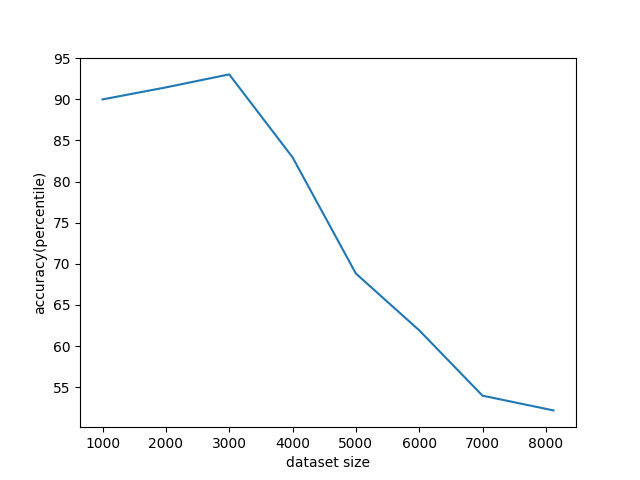
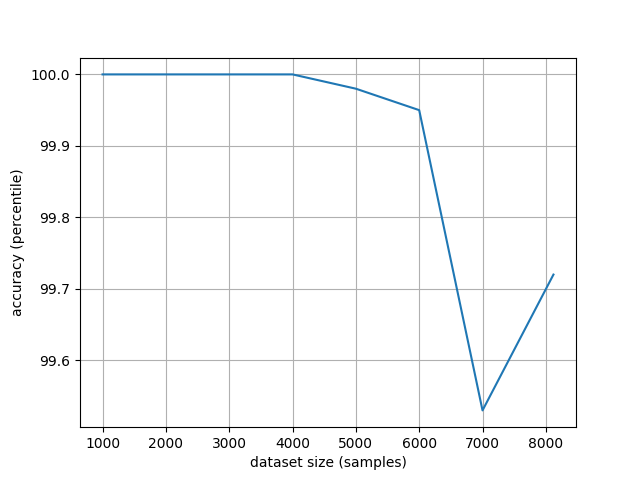
DataManager made template

diff --git a/data-manager/DataManager.hpp b/data-manager/DataManager.hpp
@@ -1,0 +1,99 @@
+#ifndef __DataManager_h__
+#define __DataManager_h__
+
+#include<iostream>
+#include<map>
+#include <utility>
+#include<vector>
+#include<string>
+#include<csv.hpp>
+
+template <class type>
+class example{
+public:
+    std::string label;
+    std::vector<type> attributes;
+};
+
+template <class type>
+class DataManager{
+public:
+    // python-like negative indexing works for label_col
+    explicit DataManager(const std::string& file_path, int label_col, bool has_header = true);
+    explicit DataManager(const std::string& file_path, bool has_header = true): DataManager(file_path, -1, has_header){}
+    std::vector<example<type>*> getListExamples();
+    std::map<std::string, std::vector<example<type>*>> getGroupedExamples();
+    std::map<std::string, std::vector<example<type>*>> getGroupedExamples(std::vector<example<type>*>& example_list);
+    size_t examples_num = 0;
+private:
+    bool has_header;
+    std::string file_path;
+    int label_column;
+};
+
+template <typename type>
+DataManager<type>:: DataManager(const std::string& file_path, int label_col, bool has_header):file_path(file_path), has_header(has_header){
+    // Create a CSVStat object just for the purpose of reading the number of columns and calculating label_column
+    // TODO find out if csv library really doesn't have the seekg(0) or rewind() ability
+    csv::CSVStat stat(file_path);
+    label_column = (label_col + stat.get_col_names().size()) % stat.get_col_names().size();
+}
+
+template <typename type>
+std::vector<example<type>*> DataManager<type>::getListExamples() {
+    csv::CSVFormat format;
+    std::vector<example<type>*> result;
+    if (!has_header)
+        format.no_header();
+    csv::CSVReader reader(file_path, format);
+    for(csv::CSVRow& row : reader){
+        auto* ex = new example<type>();
+        for(csv::CSVField& field: row){
+            std::string str = field.get<type>();
+            ex->attributes.push_back(str);
+        }
+        ex->label = ex->attributes.at(label_column);
+        ex->attributes.erase(ex->attributes.begin()+label_column);
+        result.push_back(ex);
+    }
+    examples_num = result.size();
+    return result;
+}
+
+template <typename type>
+std::map<std::string, std::vector<example<type>*>> DataManager<type>::getGroupedExamples() {
+    csv::CSVFormat format;
+    std::map<std::string, std::vector<example<type>*>> result;
+    if (!has_header)
+        format.no_header();
+    csv::CSVReader reader(file_path, format);
+    for(csv::CSVRow& row:reader){
+        auto* ex = new example<type>();
+        for(csv::CSVField& field: row){
+            std::string str = field.get<type>();
+            ex ->attributes.push_back(str);
+        }
+        std::string label = ex->attributes.at(label_column);
+        ex->label = label;
+        ex->attributes.erase(ex->attributes.begin()+label_column);
+        if(result.find(label) == result.end())
+            result[label] = std::vector<example<type>*>();
+        result[label].push_back(ex);
+        examples_num ++;
+    }
+    return result;
+}
+
+template <typename type>
+std::map<std::string, std::vector<example<type>*>> DataManager<type>::getGroupedExamples(std::vector<example<type>*> &example_list) {
+    std::map<std::string, std::vector<example<type>*>> result;
+    for(auto* ex : example_list){
+        if(result.find(ex->label) == result.end())
+            result[ex->label] = std::vector<example<type>*>();
+        result[ex->label].push_back(ex);
+    }
+    examples_num = example_list.size();
+    return result;
+}
+
+#endif

diff --git a/chapter2/assignment3.cpp b/chapter2/assignment3.cpp
@@ -2,7 +2,8 @@
 #include<string>
 #include<map>
 #include<vector>
-#include<math.h>
+#include<cmath>
+#include<DataManager.hpp>
 
 int example_num = 0;
 float sigma;
@@ -10,11 +11,11 @@ float u_min = 100;
 float u_max = 0;
 
 // {class label -> {attribute -> attribute values}}
-std::map<std::string, std::map<std::string, std::vector<float>>> example_set;
+//std::map<std::string, std::map<std::string, std::vector<float>>> example_set;
 // The number of examples for each class is held in a separate map
-std::map<std::string, int> class_num;
+//std::map<std::string, int> class_num;
 
-std::string classify(std::map <std::string, float> new_example){
+std::string classify(example* ex, size_t examples_num, const std::map<std::string, std::vector<example*>> & grouped_examples){
 	sigma = (u_max - u_min)/float(example_num);
 	float max_p = 0;
 	std::string label;
@@ -57,46 +58,11 @@ std::string classify(std::map <std::string, float> new_example){
 }
 		
 int main(){
-	printf("Please enter examples and their corresponding attributes in the following format:\n");
-	printf("<example class label>\\n<attr name><space><attr value>\\n[<attr name><space><attr value>\\n...]\\n\n");
-	printf("enter exit as example class label when finished\n\n");
-	while(true){
-		printf("Enter class label of the example:(enter done when you're done)\n");
-		// cl denotes class label of each example that the user enters
-		std::string cl;
-		std::getline(std::cin, cl);
-		if (cl == "exit") return 0;
-		if (cl == "done") break;
-		//cl contains the class this example is labeled with
-		//Add the example to the corresponding class label. If class label doesn't exist add it.
-		if (example_set.find(cl) == example_set.end()){//This means the class doesn't yet exist in our example set
-			example_set[cl] = std::map<std::string, std::vector<float>>();
-			class_num[cl] = 0;
-		}
-		// number of examples will come handy in calculating P(Ci) and normalizing sigma
-		example_num ++;
-		class_num[cl] ++;
-		printf("Now enter attribute values of this example:\n");
-		while(true){
-			std::string input;
-			std::getline(std::cin, input);
-			if(input.length() == 0) break;
-			int space_loc = input.find(' ');
-			std::string attr_name = input.substr(0, space_loc);
-			float attr_value = std::stof(input.substr(space_loc+1 , input.length() - space_loc));
-			//If this attribute name doesn't exist in attribute list then add it
-			if(example_set[cl].find(attr_name) == example_set[cl].end())
-				example_set[cl][attr_name] = std::vector<float>();
-			example_set[cl][attr_name].push_back(attr_value);
-			// We need to calculate u_max - u_min for sigma
-			if (attr_value > u_max){
-				u_max = attr_value;
-			}
-			else if(attr_value < u_min){
-				u_min = attr_value;
-			}
-		}
-	}
+    DataManager dm("../chapter2/datasets/", true);
+    std::vector<example*> example_list = dm.getListExamples();
+    std::map<std::string, std::vector<example*>> grouped_examples = dm.getGroupedExamples();
+
+    /*
 	printf("Now enter the attribute set for the example you want to label:\n");
 	std::map <std::string, float> new_example;
 	while(true){
@@ -108,6 +74,7 @@ int main(){
 		float attr_value = std::stof(input.substr(space_loc +1, input.length() - space_loc));
 		new_example[attr_name] = attr_value;
 	}
+     */
 	std::cout<<classify(new_example)<<std::endl;
 	return 0;
 }

diff --git a/chapter2/assignment2.cpp b/chapter2/assignment2.cpp
@@ -2,11 +2,11 @@
 #include<map>
 #include<vector>
 #include<iostream>
-#include<DataManager.h>
+#include<DataManager.hpp>
 
 std::map<std::string, std::vector<std::map<std::string,float>>> attribute_probs;
 
-std::string classify(example* ex, size_t examples_num, const std::map<std::string, std::vector<example*>>& grouped_examples){
+std::string classify(example<std::string>* ex, size_t examples_num, const std::map<std::string, std::vector<example<std::string>*>>& grouped_examples){
     std::string result;
     // I don't remove the example I want to classify from the list assuming the error that creates is negligible
 	float max_p = 0;
@@ -29,7 +29,7 @@ std::string classify(example* ex, size_t examples_num, const std::map<std::strin
 				long double att_num = class_it.second.size();
 				long double att_match = 0;
 				//Now iterate through all examples belonging to the same class calculating the probability P(Xi|Ci)
-				for(example* ci_exi_it : class_it.second){
+				for(example<std::string>* ci_exi_it : class_it.second){
 					//First check if the example in vector has this particular attribute of ex
 					if(ci_exi_it->attributes.at(att_index) == atti)
                         att_match ++;
@@ -50,11 +50,11 @@ std::string classify(example* ex, size_t examples_num, const std::map<std::strin
 }
 
 int main(){
-    DataManager dm("../chapter2/datasets/agaricus8.data", 0,  false);
+    DataManager<std::string> dm("../chapter2/datasets/agaricus8.data", 0,  false);
 	printf("Reading data from file...\n");
-    std::vector<example*> example_list = dm.getListExamples();
+    std::vector<example<std::string>*> example_list = dm.getListExamples();
     printf("Grouping examples...\n");
-    std::map<std::string, std::vector<example*>> grouped_examples = dm.getGroupedExamples(example_list);
+    std::map<std::string, std::vector<example<std::string>*>> grouped_examples = dm.getGroupedExamples(example_list);
 	printf("Running tests...\n");
 	// Initialize the attribute_probs map, this reduces the runtime in the classify function
 	for(const auto& class_it : grouped_examples){

diff --git a/chapter2/readme.md b/chapter2/readme.md
@@ -12,5 +12,5 @@
 	assumption to handle vectors. Here are the results: 
 ![graph](assignmentdefinitions/plot.png)
 
-	If this result is correct, then it means the naive Bayesian assumption gets weaker with the increase
-	of our dataset's size. How do I validate this? 
+    This result shows the naive Bayesian assumption's error increases a little 
+    with the dataset's size. 
